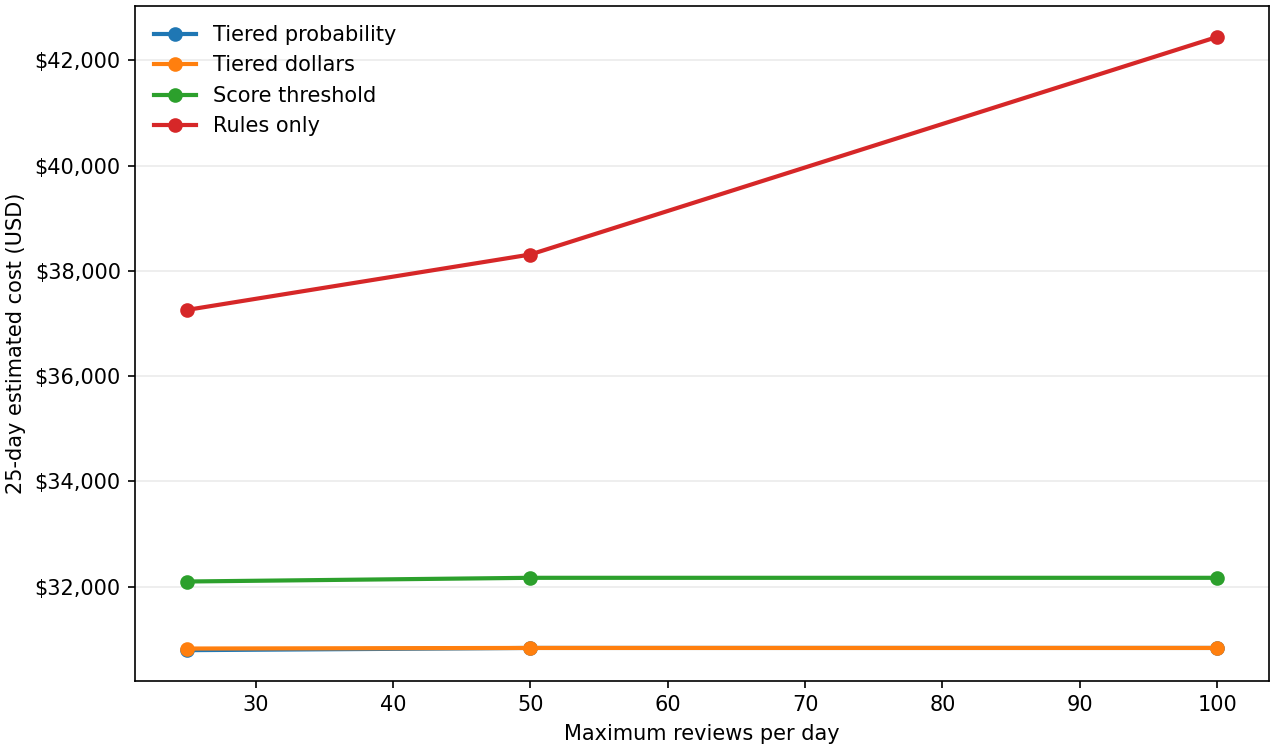
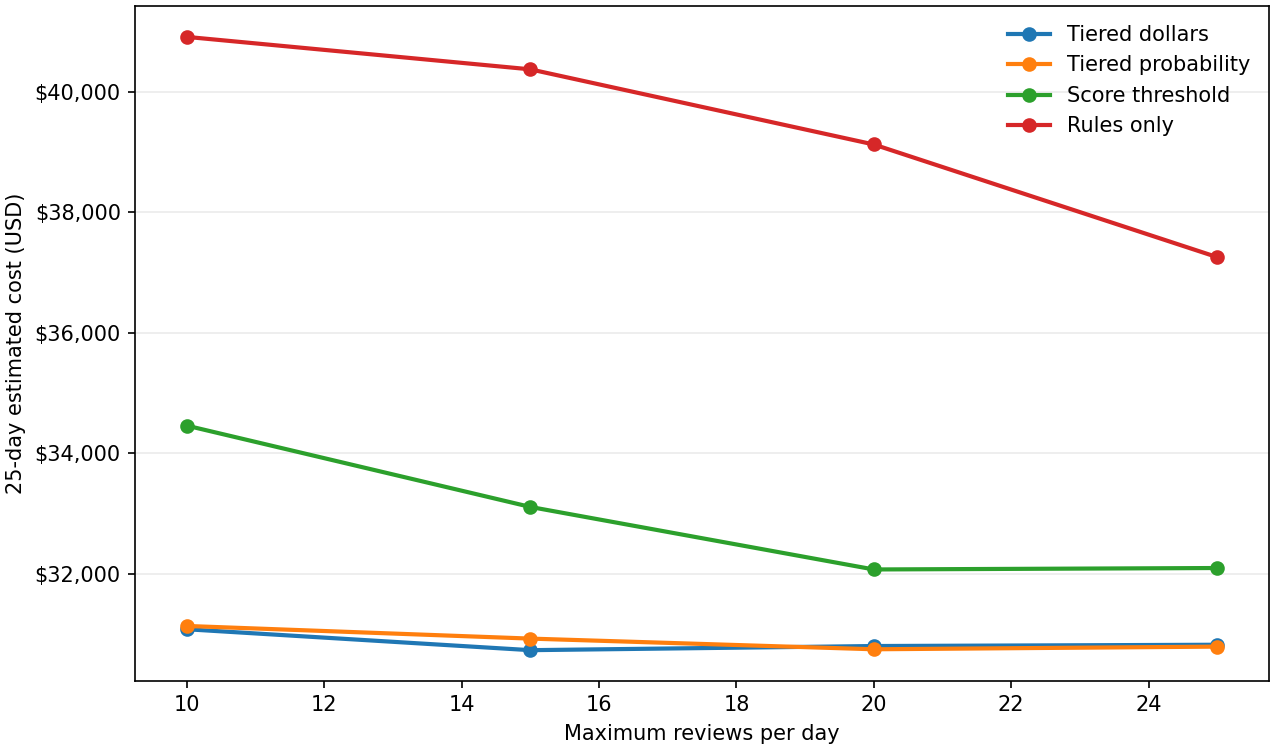
Test binding review limits and power pilot on fraud loss basis points

diff --git a/pipeline.py b/pipeline.py
@@ -79,20 +79,28 @@ def score_models(features):
     validation = frame.loc[(frame["day"] >= days[50]) & (frame["day"] < days[65])].copy()
     holdout = frame.loc[frame["day"] >= days[65]].copy()
     model_rows, calibration = [], []
-    for name, estimator in [
-        ("Logistic regression", LogisticRegression(max_iter=500)),
-        ("HistGradientBoosting", HistGradientBoostingClassifier(
-            max_iter=150, max_leaf_nodes=15, min_samples_leaf=100, random_state=42
-        )),
-    ]:
-        transform = ColumnTransformer([
-            ("numbers", make_pipeline(SimpleImputer(strategy="median", add_indicator=True),
-                                      StandardScaler()), NUMERIC),
-            ("categories", OneHotEncoder(handle_unknown="ignore", sparse_output=False), CATEGORICAL),
-        ])
-        model = make_pipeline(transform, estimator).fit(train[FEATURES], train["is_fraud"])
-        for label, split in [("validation", validation), ("holdout", holdout)]:
-            risk = model.predict_proba(split[FEATURES])[:, 1]
+    transform = ColumnTransformer([
+        ("numbers", make_pipeline(SimpleImputer(strategy="median", add_indicator=True),
+                                  StandardScaler()), NUMERIC),
+        ("categories", OneHotEncoder(handle_unknown="ignore", sparse_output=False), CATEGORICAL),
+    ])
+    train_x = transform.fit_transform(train[FEATURES])
+    validation_x = transform.transform(validation[FEATURES])
+    holdout_x = transform.transform(holdout[FEATURES])
+    train_y = train["is_fraud"]
+    boost_trials = []
+    for rounds, leaves in [(25, 3), (50, 3), (75, 5)]:
+        estimator = HistGradientBoostingClassifier(
+            max_iter=rounds, max_leaf_nodes=leaves, learning_rate=0.05,
+            min_samples_leaf=250, l2_regularization=10, early_stopping=False, random_state=42,
+        ).fit(train_x, train_y)
+        ap = average_precision_score(validation["is_fraud"], estimator.predict_proba(validation_x)[:, 1])
+        boost_trials.append((ap, rounds, leaves, estimator))
+    _, rounds, leaves, boosted = max(boost_trials, key=lambda trial: trial[0])
+    logit = LogisticRegression(max_iter=500).fit(train_x, train_y)
+    for name, model in [("Logistic regression", logit), ("HistGradientBoosting", boosted)]:
+        for label, split, design in [("validation", validation, validation_x), ("holdout", holdout, holdout_x)]:
+            risk = model.predict_proba(design)[:, 1]
             split[name] = risk
             model_rows.append({
                 "model": name, "split": label, "fraud_rate": split["is_fraud"].mean(),
@@ -107,7 +115,11 @@ def score_models(features):
                     "mean_prediction": group["risk"].mean(), "observed_fraud_rate": group["is_fraud"].mean(),
                     "fraud_cases": int(group["is_fraud"].sum()),
                 })
-    return validation, holdout, pd.DataFrame(model_rows), pd.DataFrame(calibration)
+    return validation, holdout, pd.DataFrame(model_rows), pd.DataFrame(calibration), {
+        "rounds": rounds, "max_leaf_nodes": leaves, "training_fraud_cases": int(train_y.sum()),
+        "validation_trials": [dict(average_precision=ap, rounds=r, max_leaf_nodes=l)
+                              for ap, r, l, _ in boost_trials],
+    }
 
 
 def tune_thresholds(validation, costs):
@@ -122,7 +134,6 @@ def tune_thresholds(validation, costs):
         best[policy] = min(candidates, key=lambda pair: evaluate(
             decisions(validation, policy, BASE_CAPACITY, *pair), costs
         )["total_cost"])
-    best["Rules only"] = (1.0, 1.0)
     return best
 
 
@@ -161,7 +172,7 @@ def save_chart(frame, x, y, xlabel, path, *, usage=False):
 def main():
     RESULTS.mkdir(exist_ok=True)
     features, segments = sql_analysis(synthetic_transactions())
-    validation, holdout, models, calibration = score_models(features)
+    validation, holdout, models, calibration, boost_details = score_models(features)
     model = models.loc[models["split"].eq("validation")].sort_values(
         "average_precision", ascending=False
     ).iloc[0]["model"]
@@ -171,10 +182,10 @@ def main():
     thresholds = tune_thresholds(validation, costs)
     comparison = pd.concat([
         compare(holdout, capacity, thresholds, costs).assign(capacity=capacity)
-        for capacity in (25, 50, 100)
+        for capacity in (10, 15, 20, 25, BASE_CAPACITY)
     ], ignore_index=True)
     actions = {
-        policy: decisions(holdout, policy, BASE_CAPACITY, *thresholds[policy]) for policy in POLICIES
+        policy: decisions(holdout, policy, BASE_CAPACITY, *thresholds.get(policy, ())) for policy in POLICIES
     }
     actions["Matched probability"] = decisions(
         holdout, "Tiered probability", BASE_CAPACITY, *thresholds["Tiered dollars"]
@@ -203,6 +214,7 @@ def main():
         report.round(8).to_csv(RESULTS / f"{name}.csv", index=False)
     metrics = {
         "selected_model": model, "thresholds": thresholds, "capacity": BASE_CAPACITY,
+        "boosting_validation": boost_details,
         "holdout_transactions": len(holdout), "holdout_fraud_cases": int(holdout["is_fraud"].sum()),
         "holdout_fraud_rate": holdout["is_fraud"].mean(),
     }
@@ -212,8 +224,9 @@ def main():
         for capacity in range(0, 251, 5)
     ], ignore_index=True)
     scenarios.round(8).to_csv(RESULTS / "dashboard_scenarios.csv", index=False)
-    save_chart(comparison, "capacity", "total_cost", "Maximum reviews per day", RESULTS / "capacity.png")
-    save_chart(comparison, "legit_challenges_per_1000", "total_cost",
+    binding = comparison.loc[comparison["capacity"].ne(BASE_CAPACITY)]
+    save_chart(binding, "capacity", "total_cost", "Maximum reviews per day", RESULTS / "capacity.png")
+    save_chart(binding, "legit_challenges_per_1000", "total_cost",
                "Legitimate challenges per 1,000 (labels show daily capacity)",
                RESULTS / "friction_tradeoff.png", usage=True)
     print(baseline.round(3).to_string(index=False))

diff --git a/tests/test_analysis.py b/tests/test_analysis.py
@@ -1,0 +1,48 @@
+import unittest
+
+import pandas as pd
+
+from pilot_power import sample_size_per_arm
+from pipeline import bootstrap, sql_analysis
+from policy import Costs
+
+
+class AnalysisTests(unittest.TestCase):
+    def test_card_history_features_exclude_current_and_stale_transactions(self):
+        transactions = pd.DataFrame({
+            "transaction_id": [1, 2, 3, 4, 5],
+            "card_id": [1, 1, 1, 1, 2],
+            "occurred_at": ["2025-01-01 10:00:00", "2025-01-02 10:00:00",
+                            "2025-02-01 10:00:00", "2025-02-01 10:00:00",
+                            "2025-02-01 10:00:00"],
+            "channel": ["online"] * 5,
+            "merchant_category": ["grocery", "fuel", "grocery", "travel", "grocery"],
+            "amount": [100, 20, 60, 40, 500],
+            "is_fraud": [0] * 5,
+        })
+        features, _ = sql_analysis(transactions)
+        self.assertEqual(features["new_category"].tolist(), [1, 1, 0, 1, 1])
+        self.assertEqual(features.loc[2:3, "avg_amount_30d"].tolist(), [20, 20])
+        self.assertEqual(features.loc[2:3, "amount_to_30d_avg"].tolist(), [3, 2])
+        self.assertEqual(features.loc[2:3, "seconds_since_prior"].tolist(), [2592000, 2592000])
+        self.assertTrue(pd.isna(features.loc[4, "avg_amount_30d"]))
+
+    def test_day_bootstrap_pairs_policies(self):
+        approved = pd.DataFrame({
+            "day": ["2025-01-01", "2025-01-02"], "is_fraud": [1, 1],
+            "amount": [100, 100], "action": ["approve", "approve"],
+        })
+        verified = approved.assign(action="verify")
+        results = bootstrap({
+            "Tiered dollars": verified, "Score threshold": approved,
+            "Tiered probability": verified, "Matched probability": verified,
+        }, Costs()).set_index("comparator")
+        self.assertEqual(results.loc["Score threshold"].tolist(), [128.5] * 3)
+        self.assertEqual(results.loc["Matched probability"].tolist(), [0] * 3)
+
+    def test_pilot_power_uses_basis_points_and_variance(self):
+        self.assertEqual(sample_size_per_arm(500, 5, 2), 39245)
+        self.assertEqual(sample_size_per_arm(1000, 5, 1), 39245)
+        self.assertGreater(sample_size_per_arm(500, 10, 2), 150_000)
+        with self.assertRaises(ValueError):
+            sample_size_per_arm(500, 5, 0)

diff --git a/policy.py b/policy.py
@@ -17,9 +17,12 @@ class Costs:
     verification_effectiveness: float = 0.65
 
 
-def decisions(scored, policy, capacity, review_threshold, verify_threshold):
+def decisions(scored, policy, capacity, review_threshold=None, verify_threshold=None):
     """Rank each day's eligible alerts and route capacity overflow explicitly."""
-    if capacity < 0 or not 0 <= verify_threshold <= review_threshold <= 1:
+    if capacity < 0 or (policy != "Rules only" and (
+        review_threshold is None or verify_threshold is None
+        or not 0 <= verify_threshold <= review_threshold <= 1
+    )):
         raise ValueError("Use nonnegative capacity and ordered thresholds in [0, 1].")
     if policy not in POLICIES:
         raise ValueError(f"Unknown policy: {policy}")
@@ -27,13 +30,14 @@ def decisions(scored, policy, capacity, review_threshold, verify_threshold):
     ranked = scored.copy()
     ranked["action"] = "approve"
     ranked["priority"] = ranked["risk"]
-    eligible = ranked["risk"] >= review_threshold
     if policy == "Rules only":
         eligible = (
             ((ranked["channel"] == "online") & (ranked["amount"] >= 150))
             | (ranked["prior_hour_count"] >= 2)
         )
         ranked["priority"] = ranked["amount"]
+    else:
+        eligible = ranked["risk"] >= review_threshold
     if policy.startswith("Tiered"):
         ranked.loc[ranked["risk"] >= verify_threshold, "action"] = "verify"
     if policy == "Tiered dollars":
@@ -84,7 +88,7 @@ def evaluate(actions, costs):
 def compare(scored, capacity, thresholds, costs):
     return pd.DataFrame([
         {"policy": policy, **evaluate(
-            decisions(scored, policy, capacity, *thresholds[policy]), costs
+            decisions(scored, policy, capacity, *thresholds.get(policy, ())), costs
         )}
         for policy in POLICIES
     ]).sort_values("total_cost", ignore_index=True)

diff --git a/pilot_power.py b/pilot_power.py
@@ -1,20 +1,24 @@
-"""Per-arm normal approximation for a two-sided comparison of proportions."""
+"""Plan an equally allocated pilot powered on fraud loss basis points."""
 
-from math import ceil, sqrt
+from math import ceil
 from statistics import NormalDist
 
 
-def sample_size_per_arm(control_rate, treatment_rate, alpha=0.05, power=0.80):
-    pooled = (control_rate + treatment_rate) / 2
-    critical = NormalDist().inv_cdf(1 - alpha / 2)
-    power_z = NormalDist().inv_cdf(power)
-    null_sd = sqrt(2 * pooled * (1 - pooled))
-    alternative_sd = sqrt(
-        control_rate * (1 - control_rate) + treatment_rate * (1 - treatment_rate)
-    )
-    return ceil(((critical * null_sd + power_z * alternative_sd)
-                 / abs(control_rate - treatment_rate)) ** 2)
+def sample_size_per_arm(mean_spend, residual_sd, detectable_bps, alpha=0.05, power=0.80):
+    """Use card-level residual SD from shadow data for the ratio outcome.
+
+    A residual is net fraud loss minus baseline loss per dollar times spend,
+    computed per randomized card over the planned measurement window.
+    """
+    if min(mean_spend, residual_sd, detectable_bps) <= 0:
+        raise ValueError("Spend, residual standard deviation, and effect size must be positive.")
+    if not 0 < alpha < 1 or not 0.5 < power < 1:
+        raise ValueError("Use alpha in (0, 1) and power in (0.5, 1).")
+    normal = NormalDist()
+    critical = normal.inv_cdf(1 - alpha / 2)
+    detectable_dollars = mean_spend * detectable_bps / 10_000
+    return ceil(2 * ((critical + normal.inv_cdf(power)) * residual_sd / detectable_dollars) ** 2)
 
 
 if __name__ == "__main__":
-    print(f"{sample_size_per_arm(0.001, 0.0008):,} transactions per arm before design effect")
+    print(f"{sample_size_per_arm(500, 5, 2):,} eligible cards per arm (illustrative)")

diff --git a/app.py b/app.py
@@ -21,6 +21,7 @@ def load_scenarios():
 st.caption("Synthetic 25-day holdout · Four policies with validation-tuned thresholds")
 st.sidebar.header("Scenario")
 capacity = st.sidebar.slider("Maximum reviews per day", 0, 250, 100, 5)
+st.sidebar.caption("Try 10, 15, 20, or 25 slots to see the ranking tradeoff when the queue fills.")
 fee = st.sidebar.slider("Verification cost per transaction ($)", 0.0, 8.0, 0.75, 0.25)
 effectiveness = st.sidebar.slider("Fraud dollars prevented by verification (%)", 0, 100, 65, 5)
 friction = st.sidebar.slider("Extra cost per legitimate challenge ($)", 0.0, 100.0, 2.0, 0.5)

diff --git a/README.md b/README.md
@@ -2,7 +2,9 @@
 
 [Open the live dashboard](https://shraoshree-fraud-strategy.streamlit.app/)
 
-**At 100 review slots per day, tiered verification is cheaper below about $3.44 per legitimate challenge. Above $3.44, score-only review is cheaper.** At the $2 baseline, tiered review with verification saves an estimated **$1,332** versus score-only review, while raising legitimate challenges from **2.47 to 8.56 per 1,000**. The paired 95% bootstrap range is **−$59 to $2,805**. Dollar and probability ranking tie at this capacity because eligible reviews peak at 39 per day.
+**Verification drives the savings. Pilot it to measure whether the value of avoided fraud justifies the customer friction.** In the 100-slot reference scenario, the break-even cost is **$3.44 per legitimate challenge**.
+
+At the $2 baseline, tiered verification saves an estimated **$1,332** over score-only review and raises legitimate challenges from **2.47 to 8.56 per 1,000**. The paired 95% bootstrap interval is **−$59 to $2,805**. Both rankings produce the same actions in this reference scenario because eligible reviews peak at 39 per day.
 
 ![Estimated cost versus legitimate challenges at several daily review capacities](results/friction_tradeoff.png)
 
@@ -30,11 +32,22 @@ The app uses committed aggregate scenario results and starts without model train
 | Monitor outcomes | [monitoring.sql](sql/monitoring.sql), [daily results](results/daily_monitoring.csv) | Track review and verification volume, alert precision and legitimate challenge rate after fraud labels mature. |
 | Plan a pilot | [Decision memo](DECISION_MEMO.md), [sample-size calculator](pilot_power.py) | Set guardrails, sample size and stopping rules before launch. |
 
-At 25 review slots per day, probability ranking led dollar ranking by about **$31**. This backtest gives little evidence that dollar ranking improves decisions. At 100 slots, the modeled lift over score-only review comes from adding verification to the same review queue.
+### What changes when capacity actually binds
+
+Each limit below is reached on at least one day for both tiered policies. Thresholds stay fixed so the comparison isolates the effect of changing review capacity. The ranking winner changes, and the cost differences between the two tiered policies are small.
+
+| Daily review slots | Lower-cost tiered ranking | Average daily reviews | Estimated cost advantage over the other ranking |
+|---:|---|---:|---:|
+| 10 | Estimated dollars | 9.80 | $55 |
+| 15 | Estimated dollars | 13.84 | $192 |
+| 20 | Fraud probability | 16.56 | $54 |
+| 25 | Fraud probability | 17.48 | $31 |
+
+[View estimated cost by review capacity](results/capacity.png).
 
 ### Calibration under drift
 
-In the highest-scoring logistic regression decile, mean prediction and observed fraud moved from **0.68% vs. 0.71%** in validation to **0.76% vs. 1.14%** in holdout. Holdout average precision was **0.167** for logistic regression and **0.019** for histogram gradient boosting. The deciles are formed independently in each split. The divergence matters because dollar ranking multiplies risk by transaction amount.
+In the highest-scoring logistic regression decile, mean prediction and observed fraud moved from **0.68% vs. 0.71%** in validation to **0.76% vs. 1.14%** in holdout. Holdout average precision was **0.167** for logistic regression and **0.054** for histogram gradient boosting, up from 0.019 before regularization. The boosted model used a 0.05 learning rate, larger minimum leaves, and L2 regularization. The best tree size and iteration budget were selected from three configurations on validation average precision. Training contained 118 positives, which limits the evidence for rare-event tree splits. [See the tuning results](results/metrics.json). The deciles are formed independently in each split. The divergence matters because dollar ranking multiplies risk by transaction amount.
 
 ### Cost and uncertainty
 

diff --git a/DECISION_MEMO.md b/DECISION_MEMO.md
@@ -4,13 +4,13 @@
 
 Advance score-plus-verification to shadow evaluation. At 100 review slots, both tiered strategies produce the same actions and have an estimated cost of $30,836 versus $32,169 for score-only review. The paired 95% bootstrap range for savings crosses zero, and tiered verification adds about 6.08 legitimate challenges per 1,000. Measure verification effectiveness and customer friction before drawing a rollout conclusion.
 
-At fixed action thresholds, the cost crossover is $3.44 per legitimate challenge. Both tiered policies are cheaper below that assumption, and score-only is cheaper above it. At 25 slots, probability ranking slightly outperformed dollar ranking. Start the pilot with probability ranking and reserve dollar ranking for evaluation if the queue binds and calibration is adequate.
+With the action thresholds fixed, the 100-slot cost crossover is $3.44 per legitimate challenge. At 10 and 15 slots, dollar ranking has a small simulated cost advantage. At 20 and 25 slots, probability ranking leads by $54 and $31. Start the pilot with probability ranking and measure the effect of verification against a score-only control.
 
 ## Pilot design
 
-Randomize eligible card accounts 1:1 so repeat purchases from a card stay in one arm. Compare score-only against score-plus-verification, run in parallel, and reserve separate review capacity by arm. Measure confirmed fraud incidence after a predeclared 60-day label maturation window. Report prevented fraud dollars and total estimated cost separately. Match the experiment eligibility definition to the denominator used in power estimates.
+Randomize eligible card accounts 1:1 so repeat purchases from a card stay in one arm. Compare score-only against score-plus-verification, run in parallel, and reserve separate review capacity by arm. The **primary outcome is net confirmed fraud losses in basis points of settled eligible purchase spend**, measured after a predeclared 60-day maturation window. Calculate it as 10,000 × net confirmed fraud loss dollars ÷ settled purchase dollars, separately for each arm. Use a consistent recovery cutoff. Report net loss dollars and settled spend separately so changes in approvals or abandonment are visible. Track fraud attempts as a diagnostic.
 
-For planning, a two-sided 5% test with 80% power needs **352,881 eligible transactions per arm** to detect a drop from 0.10% to 0.08% under independent observations. If the mean is five eligible transactions per card and within-card correlation is 0.02, the illustrative design effect is 1.08, or **381,112 per arm**. Estimate the design effect from shadow data and re-power if the eligible population's fraud rate differs. Use card-clustered analysis and allow for label delays and incomplete follow-up. Run `python pilot_power.py` to reproduce the unadjusted estimate.
+For planning, an illustrative two-sided 5% test with 80% power to detect a **2 basis point** difference needs **39,245 eligible cards per arm** if average settled spend is $500 per card and the card-level residual standard deviation is $5. The residual is each card's loss minus its spend multiplied by the baseline loss per dollar. Estimate both inputs from shadow data using the planned eligibility, enrollment and maturity windows. Use card-level randomization and card-level uncertainty for the loss-to-spend ratio. Run `python pilot_power.py` to reproduce the illustrative estimate and re-power before launch.
 
 | Guardrail | Proposed stop limit vs. control |
 |---|---|
